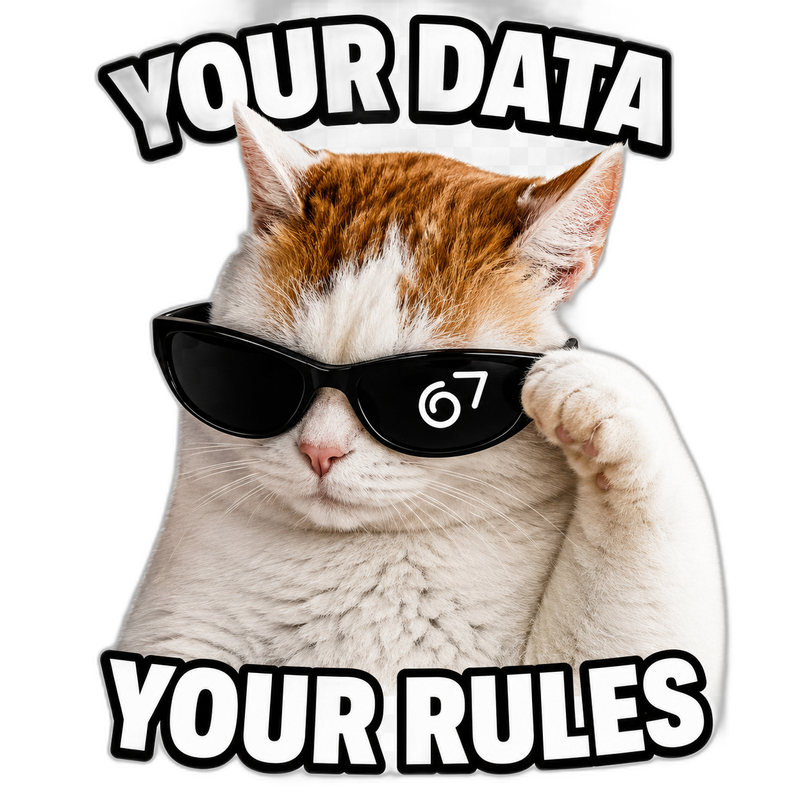
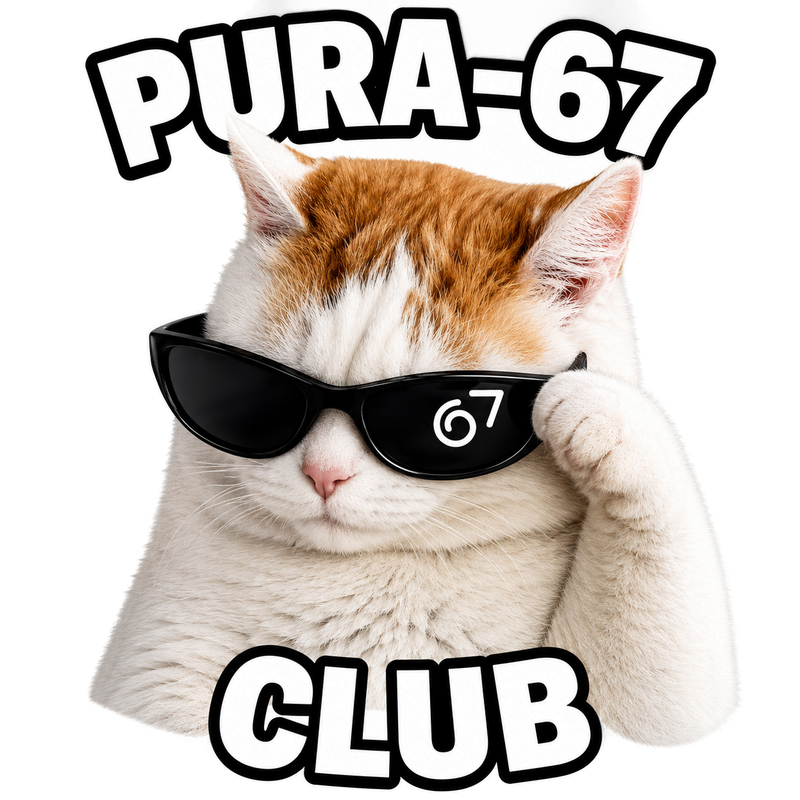
hero: swap in PURA-67 CLUB cat (clean alpha-matte bg removal)

diff --git a/index.html b/index.html
@@ -141,7 +141,7 @@
       <div class="snoop">🌿 your data · your turf · laid-back, local &amp; nobody's business but yours</div>
     </div>
     <div class="hero-art">
-      <img class="bigmark" src="cat.png" alt="your data, your rules — cool cat in pura67 shades" />
+      <img class="bigmark" src="cat.png" alt="PURA-67 CLUB — cool cat in pura67 shades" />
     </div>
   </header>
 